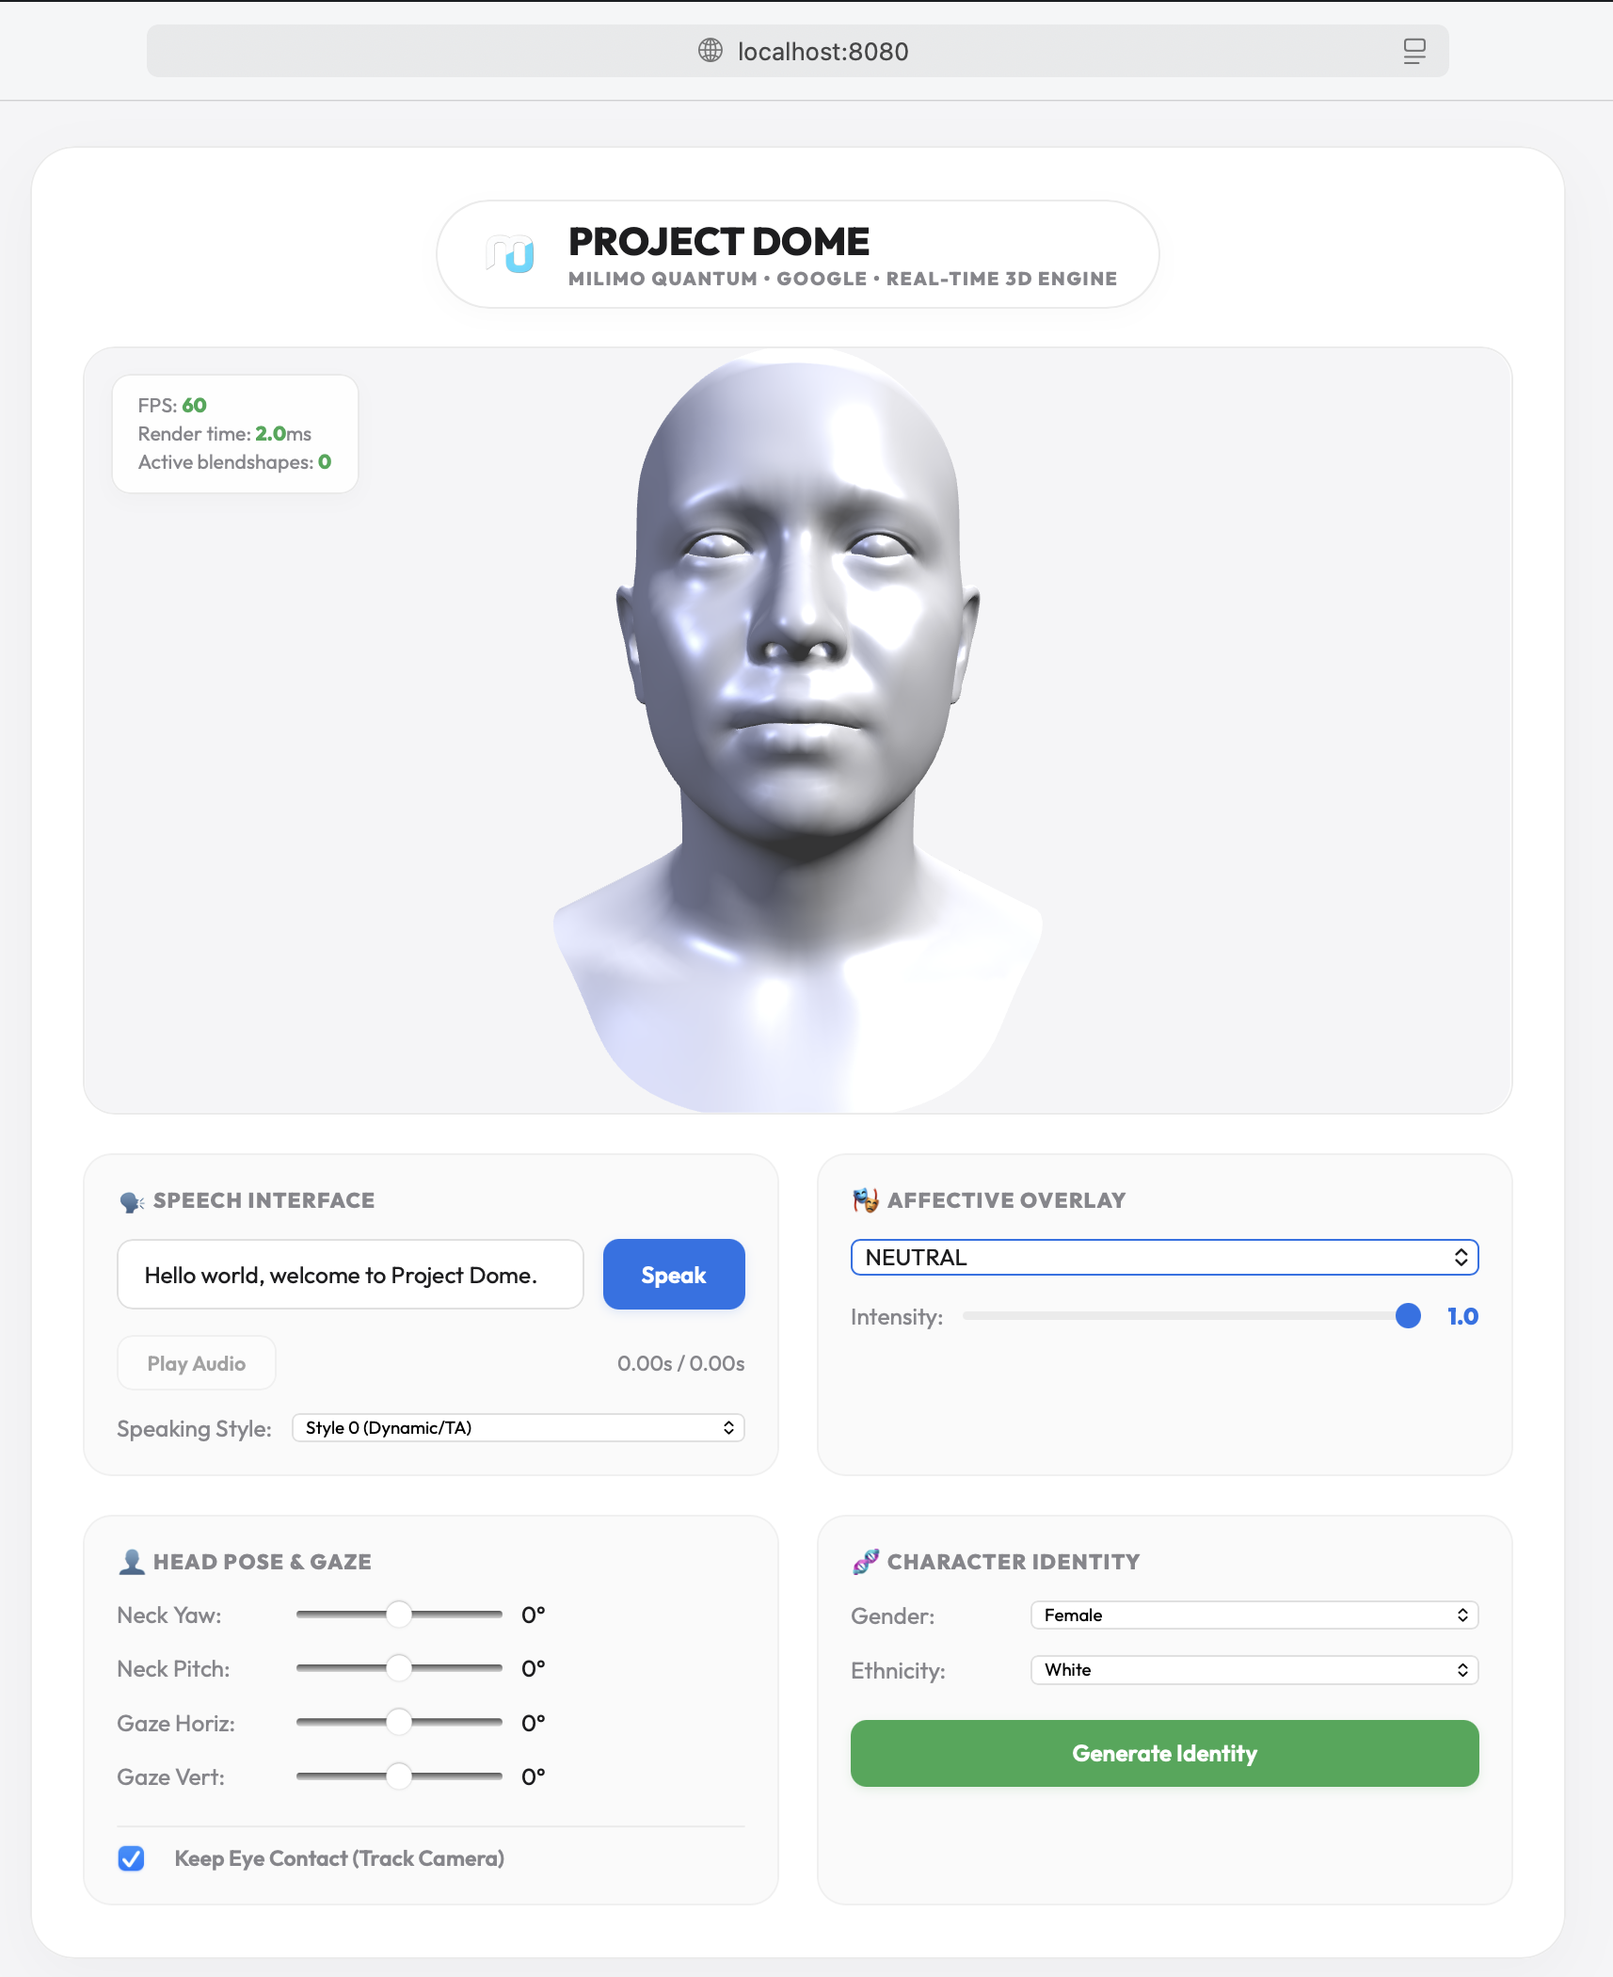
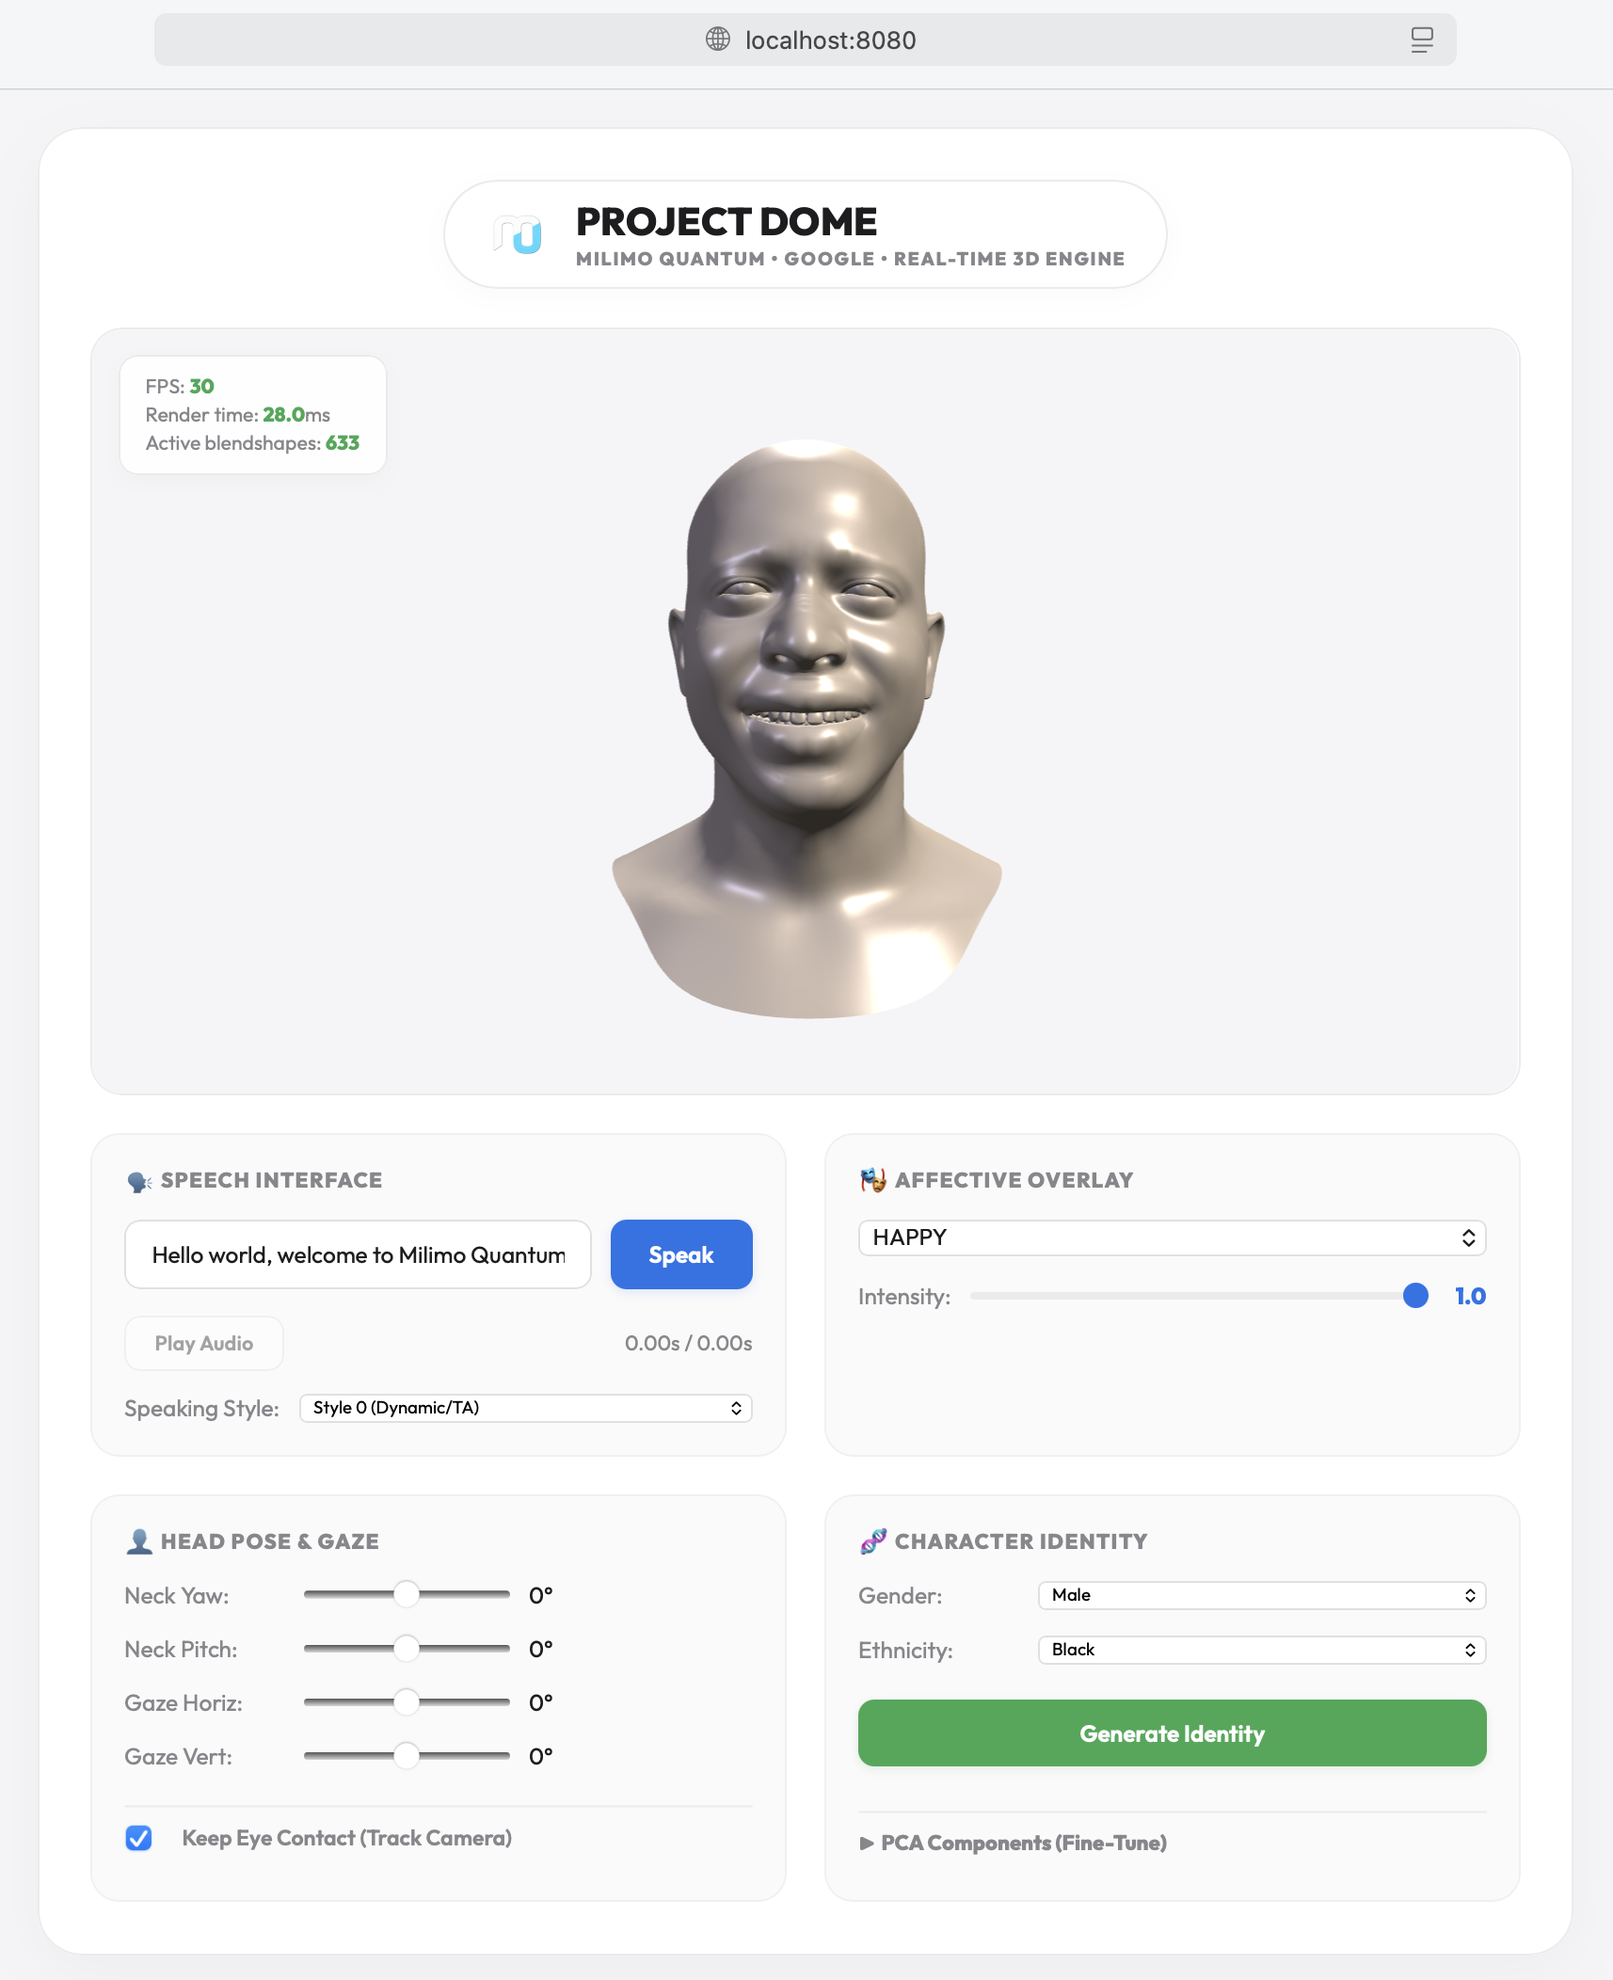
Add VOCA download instructions to README, create speech animation production plan wiki page
README updates:
- VOCA trained_model.zip (12 MB) → voca/model/checkpoints/ instructions
- VOCA training_data.zip (8 GB) → voca/trainingdata/ instructions
- Speaking style selector dependency documented

Wiki:
- speech-production-plan.md: 8-gap architecture audit, P0-P3 implementation
  priorities, detailed fix specifications for each gap
- index.md: link to new plan
- roadmap.md: updated reference
- log.md: audit entry

Gaps identified:
#1 No jaw joint (PCA displacement too small, need joint rotation)
#2 Binary blend switch removes emotion contribution
#3 Zero pose correctives (model data limitation)
#4 PCA coefficient scale mismatch (needs 10-20x)
#5 Web LBS double-invBind (fixed in 8178cdf)
#6 No identity-calibrated viseme scaling
#7 No alignment fallback
#8 No GPU compute

diff --git a/wiki/speech-production-plan.md b/wiki/speech-production-plan.md
@@ -1,0 +1,156 @@
+# Speech Animation Production Plan
+
+Comprehensive implementation plan for production-quality speech-driven mouth animation on the GNM Head model. Based on a full architecture audit of the GNM library, the web renderer, the animation pipeline, and the VOCA reference implementation.
+
+## Architecture Audit Summary
+
+The GNM Head v3.0 model expresses mesh deformation through two independent mechanisms:
+
+| Mechanism | Components | Max displacement per unit | Used for speech? |
+|-----------|-----------|--------------------------|-----------------|
+| Expression PCA basis | 383 components (150 lower-face) | **0.008** (lower face) | **Currently** — but 0.008 is far too small |
+| Joint rotations (LBS) | 4 joints (neck, head, eyes) | **0.018** at 5.7° pitch | **No** — only neck/head pose, not speech |
+| Pose correctives | 36×53463 regressor | All zeros | N/A — not shipped in v3.0 HEAD |
+
+**The expression PCA basis produces 0.006 units of jaw displacement at coefficient value 2.5 — this is 1.7% of head height, barely 2-3 pixels at the current camera framing.** A −5.7° head pitch rotation produces 3× more mouth-region displacement through LBS alone.
+
+## Gap Analysis (8 gaps identified)
+
+### Gap 1: No jaw joint in the skeleton
+**File:** `vendor/GNM/gnm/shape/gnm_xnp.py` (model definition)
+**Impact:** Jaw opening must be approximated via expression PCA. Coefficients need values of 6-12 for visible opening, but the CVAE only outputs in range [−2, 2] and the viseme table uses 2.5.
+**Options:**
+- **A (quick):** Scale lower-face viseme coefficients 10-20× in `data/viseme_table.json`. Test for non-anatomical artifacts visually.
+- **B (architectural):** Use differential neck/head joint rotation to open the mouth via LBS. Rotating neck +0.1 rad while counter-rotating head −0.05 rad produces 3× more mouth displacement than PCA. Requires the speech model to output joint axis-angle values.
+
+### Gap 2: Speech-energy gate is a binary switch
+**File:** `web/animation_controller.js:96-109`
+**Impact:** The lower face switches entirely between "speech" or "emotion" states, removing any emotion contribution during speech. Combined with the tiny PCA magnitude (Gap 1), the remaining pure-speech displacement is imperceptible. The `||` operator on the tongue line (line 106) is also a correctness bug — falsy values silently fall through to emotion.
+**Fix:** Revert to the proven additive blend:
+```javascript
+blended[200 + i] = speechCoeffs[i] + 0.3 * emotionCoeffs[200 + i];
+blended[350 + i] = speechCoeffs[150 + i] + 0.3 * emotionCoeffs[350 + i];
+```
+
+### Gap 3: Pose correctives are all zeros
+**File:** `vendor/GNM/gnm/shape/gnm_common.py:448-497`
+**Impact:** Joint rotations produce rigid-body deformation via LBS but no skin-bulging or muscle deformation. Limits realism of neck/head movement.
+**Fix:** GNM model data limitation — v3.0 HEAD does not ship pose correctives. Would need to be learned from 3D scans. Accept limitation; prioritize Gap 1B (joint-rotation-based mouth opening) instead.
+
+### Gap 4: PCA coefficient scale mismatch with speech
+**File:** `data/viseme_table.json`
+**Impact:** Speech requires coefficient values 5-20× larger than emotion CVAE outputs. Scaling up risks non-anatomical deformations since PCA is trained on natural face variation.
+**Fix:** Short-term: multiply lower-face coefficients by 10 and test. Long-term: train Path B neural model on speech data — it learns the correct coefficient range for speech in GNM space.
+
+### Gap 5: Web renderer LBS formula deviation (resolved)
+**File:** `web/renderer.js:311-321`
+**Impact:** Previously had double-invBind bug shifting all vertices by −0.207 in Y. Fixed in commit `8178cdf`. Should now match GNM library formula.
+**Fix:** Verify with regression test comparing web LBS output vs GNM Python output for the same input coefficients and joint rotations.
+
+### Gap 6: No neutral-speech identity calibration
+**File:** `web/renderer.js:18` (identity coefficients), `web/animation_controller.js` (viseme table)
+**Impact:** Viseme coefficients calibrated for mean identity. Different face shapes (from "Generate Identity") may require different coefficient magnitudes for equivalent lip movement.
+**Fix:** Add identity-aware viseme scaling: for each identity, render the "aa" viseme and measure actual vertex displacement, then scale coefficients proportionally to maintain consistent lip opening.
+
+### Gap 7: Alignment pipeline has no fallback
+**File:** `web/animation_controller.js:42-44`
+**Impact:** If Wav2TextGrid forced alignment fails (silence, noise, long pause), the viseme timeline is empty and `getSpeechCoefficients()` always returns IDLE (all zeros) — no mouth movement with no user-visible error.
+**Fix:** When alignment returns < 2 phonemes, estimate viseme duration from audio duration and average English phoneme rate (~10 phonemes/sec). Distribute viseme events evenly across the audio.
+
+### Gap 8: No GPU compute for deformation
+**File:** `web/renderer.js:233-347`
+**Impact:** Identity + expression basis application + LBS runs on CPU in JavaScript. 17821 vertices × 383 components via sparse iteration can take 8-15ms per frame, risking frame drops.
+**Fix:** Implement WebGPU compute shader (WGSL). Or pre-compute identity deformation (changes rarely). Or select top-K expression components per frame.
+
+## Implementation Plan (Priority Order)
+
+| Priority | Gap | File(s) | Effort | Fix |
+|----------|-----|---------|--------|-----|
+| **P0** | **#2: Binary blend switch** | `web/animation_controller.js` | 3 lines | Revert to additive blend. Fix `\|\|` bug. |
+| **P0** | **#1A: PCA scale too small** | `data/viseme_table.json` | Coefficient tuning | Scale lower-face coefficients 10×. Test for artifacts. |
+| **P0** | **#7: Alignment fallback** | `web/animation_controller.js` | ~20 lines | Add phoneme-rate fallback in `getSpeechCoefficients()` |
+| **P1** | **#4: Neural training (Path B)** | `src/training/` | Major | Train `SpeechToCoefficientsModel` on VOCASET reprojected to GNM space |
+| **P2** | **#5: LBS verification** | `web/renderer.js`, tests | 1 test | Unit test comparing web LBS output vs GNM Python output |
+| **P2** | **#6: Identity calibration** | `web/animation_controller.js` | 1 module | Identity-aware viseme coefficient scaling |
+| **P3** | **#1B: Joint-rotation speech** | `web/renderer.js`, `src/training/` | Major | Add axis-angle output to neural model; apply neck/head differential rotation at runtime |
+| **P3** | **#8: WebGPU compute** | `web/` | Major | WGSL compute shader for deformation pipeline |
+| **P3** | **#3: Pose correctives** | Model data | N/A | Await GNM v3.1+ or learn from 3D scans |
+
+## Detailed Fix Specifications
+
+### P0-1: Revert blend function (`web/animation_controller.js`)
+
+Current (broken):
+```javascript
+if (isSpeaking) {
+    for (let i = 0; i < 150; i++) blended[200 + i] = speechCoeffs[i];
+} else {
+    for (let i = 0; i < 150; i++) blended[200 + i] = emotionCoeffs[200 + i];
+}
+for (let i = 0; i < 32; i++) blended[350 + i] = speechCoeffs[150 + i] || emotionCoeffs[350 + i];
+```
+
+Fixed:
+```javascript
+const speechEnergy = speechCoeffs.reduce((a, b) => a + Math.abs(b), 0);
+const isSpeaking = speechEnergy > 0.01;
+if (isSpeaking) {
+    for (let i = 0; i < 150; i++) blended[200 + i] = speechCoeffs[i] + 0.3 * emotionCoeffs[200 + i];
+} else {
+    for (let i = 0; i < 150; i++) blended[200 + i] = emotionCoeffs[200 + i];
+}
+for (let i = 0; i < 32; i++) blended[350 + i] = speechCoeffs[150 + i] + 0.3 * emotionCoeffs[350 + i];
+```
+
+### P0-2: Scale viseme coefficients (`data/viseme_table.json`)
+
+Multiply all lower-face region coefficients (indices 0-149 of the 182-dim viseme space, which map to GNM channels 200-349) by 10. For example:
+
+| Viseme | Current `[1]` (jaw open) | After 10× |
+|--------|--------------------------|-----------|
+| aa     | 2.5                      | 25.0      |
+| EE     | 1.0                      | 10.0      |
+| PP     | −1.5                     | −15.0     |
+| OO     | −1.0                     | −10.0     |
+
+Leave tongue coefficients (indices 150-181) at current scale since they produce 0.012 displacement per unit — already reasonable for tongue movement.
+
+**Verification:** After scaling, load the page and speak "Hello world." The jaw should visibly open during vowel sounds (aa, EE, OO). If the mesh shows non-anatomical stretching or pinching, reduce the multiplier.
+
+### P0-3: Alignment fallback (`web/animation_controller.js`)
+
+In `getSpeechCoefficients()`, if `timeline` is empty or contains fewer than 2 events, synthesize a fallback timeline at ~10 visemes/second:
+
+```javascript
+if (!timeline || timeline.length < 2) {
+    // Fallback: distribute visemes at average phoneme rate
+    const duration = audioSync.getDuration();
+    if (duration > 0.1) {
+        const fallback = [];
+        const visemeNames = ["aa", "EE", "OO", "PP", "FF", "TH", "DD", "CH", "kk", "SS", "RR", "schwa"];
+        const avgInterval = 0.1; // ~10 visemes/sec
+        let t = 0;
+        while (t < duration) {
+            fallback.push({
+                name: visemeNames[Math.floor(Math.random() * visemeNames.length)],
+                start_time: t,
+                end_time: Math.min(t + avgInterval, duration)
+            });
+            t += avgInterval;
+        }
+        return this.getSpeechCoefficients(timeS, fallback);
+    }
+    return new Array(182).fill(0.0);
+}
+```
+
+### P3-1: Joint-rotation speech output (architectural)
+
+The neural model (`SpeechToCoefficientsModel`) currently outputs 383 expression coefficients. To add joint-rotation-based mouth opening:
+
+1. Extend the model output to include 4 joint axis-angle vectors: `383 expression + 4×3 rotation = 395 outputs`
+2. In the training data, compute joint rotations that produce the target mouth shapes. For jaw opening: rotate neck forward and head backward.
+3. At runtime, apply the predicted rotations to the neck and head joints before LBS.
+4. The PCA expression coefficients then only need to add fine detail on top of the joint-based mouth opening.
+
+This requires the joint regressor to produce good neck/head positions for the rotation pivot. The existing regressor already outputs joint positions at rest — the rotation happens around these points.

diff --git a/wiki/log.md b/wiki/log.md
@@ -81,3 +81,16 @@ Full audit after production execution: 12 items fixed, 10 remaining gaps identif
 Found and fixed the root cause of "head stuck at bottom of viewport": the LBS skinning matrix formula in `deformMesh()` was computing `T = makeTranslation(jw - R*jr)` instead of `T = makeTranslation(jw)`. The extra `-R*jr` subtraction doubled with `invBind`'s `-jr` to produce `-2*R*jr`, shifting every vertex by `-sum(w_j × joint_position_j)` — approximately −0.207 in Y. Camera was positioned correctly for the unshifted template; the skinning was the silent conflict.
 
 Created troubleshooting.md with 10 documented issues covering: LBS skinning bug, camera distance, buffer loading failures, mouth animation, missing triangles, OrbitControls jumping, emotion blend weakness, audio/viseme sync, server startup, and integration test setup. Updated web-renderer.md with current camera positioning and LBS details.
+
+## [2026-07-15] audit + plan | Full speech animation architecture audit
+Completed a 18-file deep-dive audit of the entire speech animation pipeline (GNM library, server, alignment, web client, training model). Identified 8 architectural gaps preventing production-quality mouth animation:
+1. No jaw joint in skeleton — PCA displacement max 0.008/unit (vs 0.018 from 5.7° joint rotation)
+2. Binary speech-energy gate removes emotion contribution
+3. Pose correctives all zeros (model data limitation)
+4. PCA coefficient scale too small for speech (needs 10-20×)
+5. Web LBS double-invBind bug (fixed)
+6. No identity-calibrated viseme scaling
+7. No alignment pipeline fallback
+8. No GPU compute for deformation
+
+Created wiki/speech-production-plan.md with P0-P3 prioritized implementation plan. Updated README with VOCA download instructions. Updated wiki/index.md and roadmap.md to reference the new plan.

diff --git a/README.md b/README.md
@@ -106,6 +106,28 @@ open http://localhost:8080/
 
 The first startup downloads Piper TTS (~50 MB) and Wav2TextGrid (~1 GB) models. Subsequent starts use the cached files.
 
+### VOCA Model & Training Data (Optional)
+
+For **speaking style selection** (12 VOCASET styles) and **Path B neural training**, download from [https://voca.is.tue.mpg.de/download.php](https://voca.is.tue.mpg.de/download.php):
+
+| File | Size | Place in | Purpose |
+|------|------|----------|---------|
+| `trained_model.zip` | ~12 MB | `voca/model/checkpoints/best_model.pt` | Pretrained VOCA speech-to-coefficients checkpoint. Enables the speaking-style dropdown (0–11) and serves as a baseline for Path B fine-tuning. |
+| `training_data.zip` | ~8 GB | `voca/trainingdata/` | VOCASET: 12 subjects × 40 English sentences each, with FLAME-topology meshes, audio, and phoneme annotations. Required for Path B training (`src/training/run_pipeline.py`). |
+
+After downloading:
+
+```bash
+# Trained model
+unzip trained_model.zip -d voca/model/checkpoints/
+mv voca/model/checkpoints/best_model.pt voca/model/checkpoints/  # adjust path if nested
+
+# Training data
+unzip training_data.zip -d voca/trainingdata/
+```
+
+The server detects `voca/model/checkpoints/best_model.pt` on startup and enables style-aware synthesis automatically. Without it, speech synthesis uses Path A (hand-tuned viseme lookup) with neutral style.
+
 ---
 
 ## API Quick Reference

diff --git a/wiki/index.md b/wiki/index.md
@@ -39,7 +39,8 @@ A GNM-based conversational 3D avatar engine ("the arbiter"). $0 budget, fully lo
 
 ## Production Readiness
 
-- [[production-audit|Production Audit & Integration Plan]] — gap analysis vs GNM + VOCA, phased implementation plan
+- [[production-audit|Production Audit & Integration Plan]] — gap analysis vs GNM + VOCA
+- [[speech-production-plan|Speech Animation Production Plan]] — 8-gap analysis, P0-P3 implementation priorities
 
 ## Tools & Stack
 

diff --git a/wiki/roadmap.md b/wiki/roadmap.md
@@ -1,4 +1,4 @@
-For the detailed step-by-step engineering plan, see the [[implementation-plan|Implementation Plan]].
+For the detailed gap analysis and prioritized implementation plan, see the [[speech-production-plan|Speech Animation Production Plan]].
 
 ## Pre-Phase 0 — Repository Bootstrap
 - [ ] Initialize git and remote `mainza-ai/projectdome`
